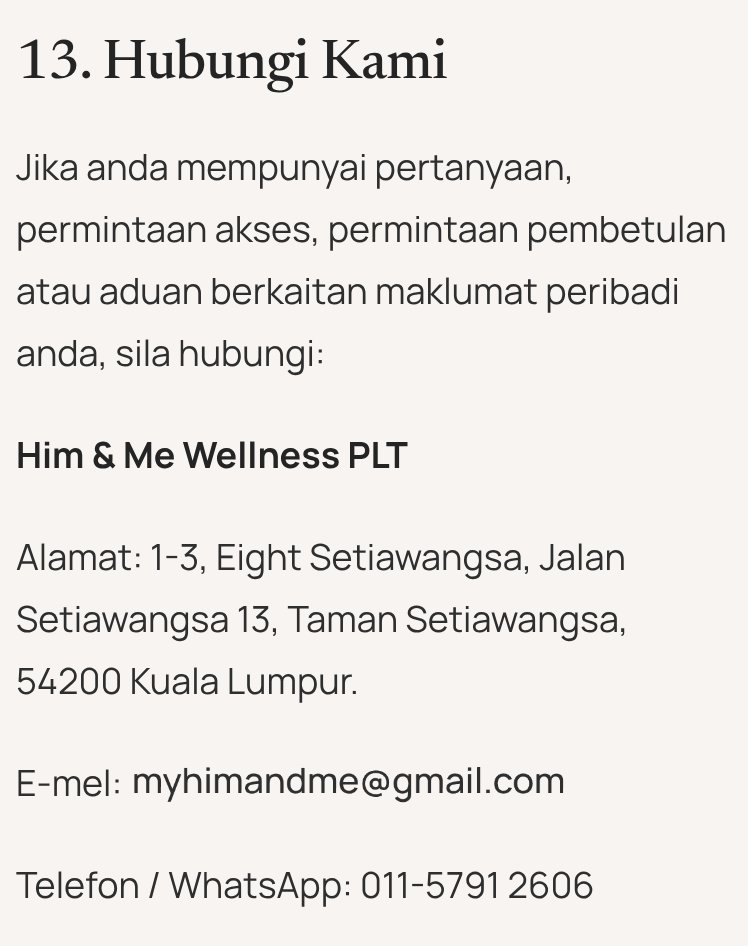
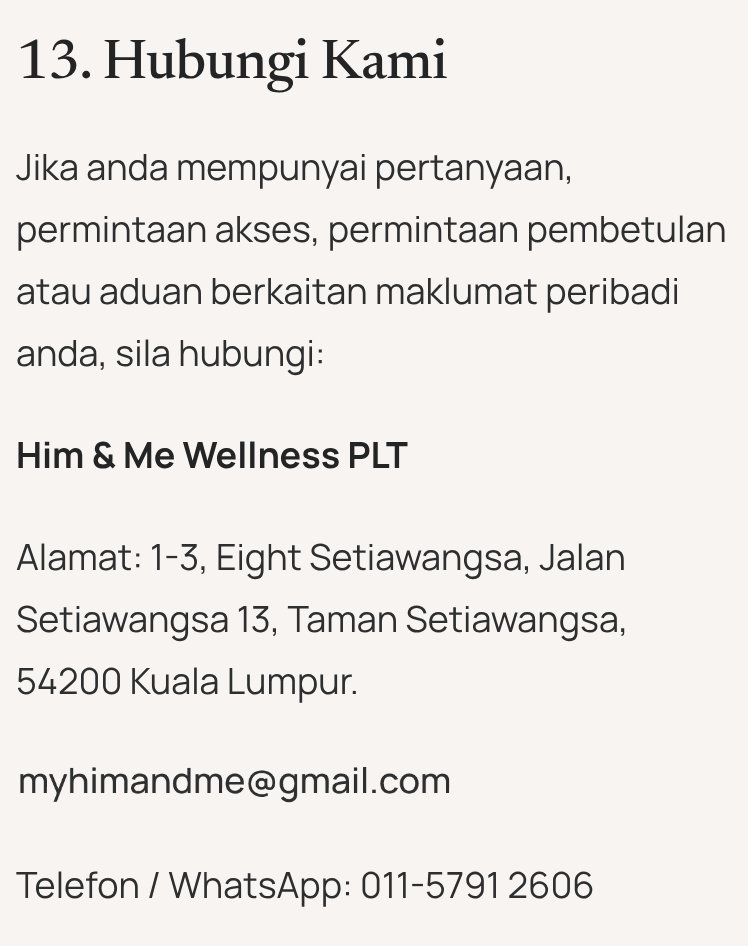
Keep "e-mel"/"email" out of served files
- Notis Privasi contact sections: image only, no "E-mel:"/"Email:" label;
  alt text "Hubungi/Contact Him & Me untuk/for pertanyaan privasi/privacy
  enquiries".
- Renamed image to assets/images/hubungi-himandme.png, class to
  hm-contact-img, generator to scripts/make-contact-image.mjs.
- Test H4 scans pages, RSS, sitemaps, CSS and JS for the words (owner's
  two notice data-category lines excepted, pending decision).

Claude-Session: https://claude.ai/code/session_01U2VADpihLRmBJD5br2Zc9P

Changed region(s): [[0.0307, 0.797, 0.738, 0.8584]]

diff --git a/assets/css/pages/doc.css b/assets/css/pages/doc.css
@@ -62,6 +62,6 @@
   .hm-doc__body li { font-size: 17px; padding-left: 24px; }
 }
 
-/* Contact email shown as an image (anti-harvesting). Sized in em so it scales with the body text
+/* Privacy contact address shown as an image (anti-harvesting; no related words in the served files). Sized in em so it scales with the body text
    (19px desktop, 18px phone); width/height keep the 231:28 ratio, so it never distorts. */
-.hm-doc__body .hm-email-img { display: inline-block; width: 12.16em; max-width: 100%; height: auto; vertical-align: -0.36em; }
+.hm-doc__body .hm-contact-img { display: inline-block; width: 12.16em; max-width: 100%; height: auto; vertical-align: -0.36em; }

diff --git a/docs/STAGE-4-REPORT.md b/docs/STAGE-4-REPORT.md
@@ -138,17 +138,19 @@
 
 ## Email display (anti-harvesting)
 - **Footer (desktop + mobile):** email removed completely. No text, no link and no image. The phone, WhatsApp, address, hours and layout are unchanged. The `contact_email` setting was removed with it, because GScan rejects unused settings.
-- **Notis Privasi:** both contact sections (BM + English) show `myhimandme@gmail.com` as **one local image asset** (`assets/images/email-himandme.png`):
+- **Notis Privasi:** both contact sections (BM + English) show `myhimandme@gmail.com` as **one local image asset** (`assets/images/hubungi-himandme.png`), with no "E-mel:" / "Email:" label in front:
   - The image is a 3 KB transparent PNG, typeset in Manrope in the article text colour.
   - It is rendered at 3× and displayed at 231×28 px (219×27 on phones). It scales with the text (em-based width, `height: auto`), so it never distorts.
-  - Alt text: "E-mel Him & Me untuk pertanyaan privasi" / "Email Him & Me for privacy enquiries".
+  - Alt text: "Hubungi Him & Me untuk pertanyaan privasi" / "Contact Him & Me for privacy enquiries".
+- **No "e-mel" / "email" words served:** the labels were removed, and the image file, CSS class and alt text don't use the words. Test H4 scans the pages, RSS, sitemaps, CSS and JS. **Two exceptions, pending your decision:** the notice's own data-category lines, "Alamat e-mel, jika diberikan." (2A) and "Email address, if provided." (2A, English).
   - The address and phone stay normal text.
 - **No JavaScript obfuscation**, contact form, CAPTCHA or backend.
-- **Accessibility note:** the alt text names the purpose, not the address, as you specified. So screen-reader users hear "Email Him & Me for privacy enquiries" but not the address itself; they can use the WhatsApp/telephone line. This is the trade-off of hiding the address from machines.
+- **Accessibility note:** the alt text names the purpose, not the address, as you specified. So screen-reader users hear "Contact Him & Me for privacy enquiries" but not the address itself; they can use the WhatsApp/telephone line. This is the trade-off of hiding the address from machines.
 - **Tests:**
   - H1: no email text or `mailto:` on `/`, `/disfungsi-ereksi/`, `/notis-privasi/` or `/blog/`, and no email line in any footer.
   - H2: one image asset for both languages, alt texts, address and phone as text.
   - H3 (browser): the image loads (693×84), stays in proportion and is at least 200px wide at 1440px and 390px.
+  - H4: no "e-mel" / "email" in any served file, apart from the two notice lines.
 - **Screenshots:**
   - `docs/stage-4/email-footer-desktop.jpg`, `email-footer-mobile.jpg`
   - `email-privasi-bm-desktop.jpg`, `email-privasi-bm-mobile.jpg`

diff --git a/README.md b/README.md
@@ -124,9 +124,11 @@ If the block is unpublished, the approved copy is shown, still using `offer_pric
 
 ### Email address (anti-harvesting)
 
-The email address is **never in the site HTML as text**: there's no email in the footer (desktop or mobile), and no `mailto:` link. On the Notis Privasi page it appears as an image, `assets/images/email-himandme.png` (theme asset, transparent PNG, 3 KB). The image is used in both the BM and English contact sections, inside an **HTML card** with alt text ("E-mel Him & Me untuk pertanyaan privasi" / "Email Him & Me for privacy enquiries"). This deters simple harvesters; it is not proof against OCR.
+The email address is **never in the site HTML as text**: there's no email in the footer (desktop or mobile), and no `mailto:` link. On the Notis Privasi page it appears as an image, `assets/images/hubungi-himandme.png` (theme asset, transparent PNG, 3 KB). The image is used in both the BM and English contact sections, inside an **HTML card**, with no "E-mel"/"Email" label. Its alt text is "Hubungi Him & Me untuk pertanyaan privasi" / "Contact Him & Me for privacy enquiries".
 
-To change the address, edit `EMAIL` in `scripts/make-email-image.mjs` and run `node scripts/make-email-image.mjs`. Then compress the PNG to a palette image (the committed file was reduced from 12 KB to 3 KB with Pillow `quantize(48)`), rebuild and upload the theme. Don't type the address into a page, block or setting.
+The words "e-mel" and "email" are kept out of everything the site serves: the image file name, CSS class (`hm-contact-img`) and alt text avoid them. The only exceptions are the notice's two data-category lines ("Alamat e-mel, jika diberikan." / "Email address, if provided."). This deters simple harvesters; it is not proof against OCR.
+
+To change the address, edit `ADDRESS` in `scripts/make-contact-image.mjs` and run `node scripts/make-contact-image.mjs`. Then compress the PNG to a palette image (the committed file was reduced from 12 KB to 3 KB with Pillow `quantize(48)`), rebuild and upload the theme. Don't type the address into a page, block or setting.
 
 ### Legal pages
 
